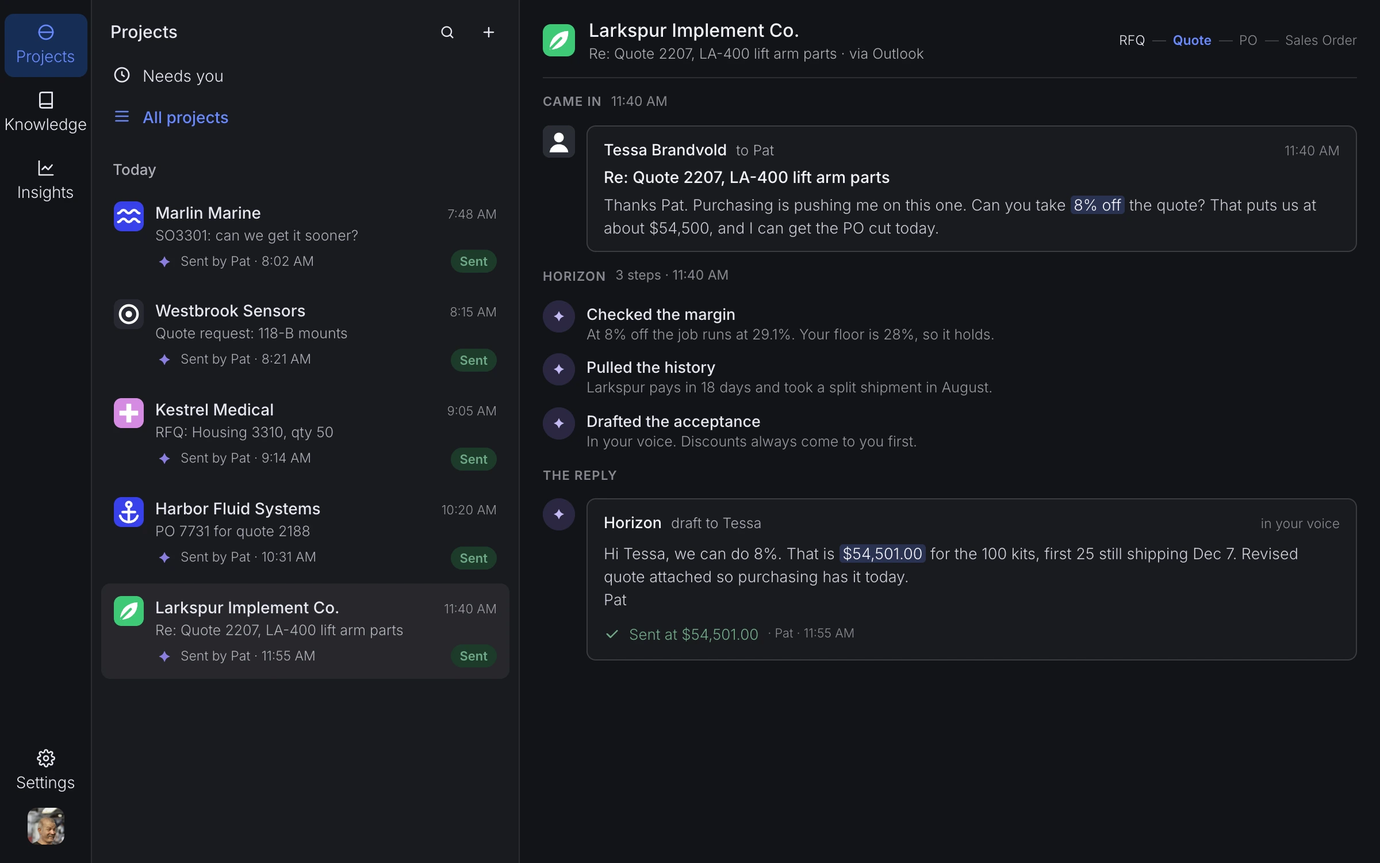
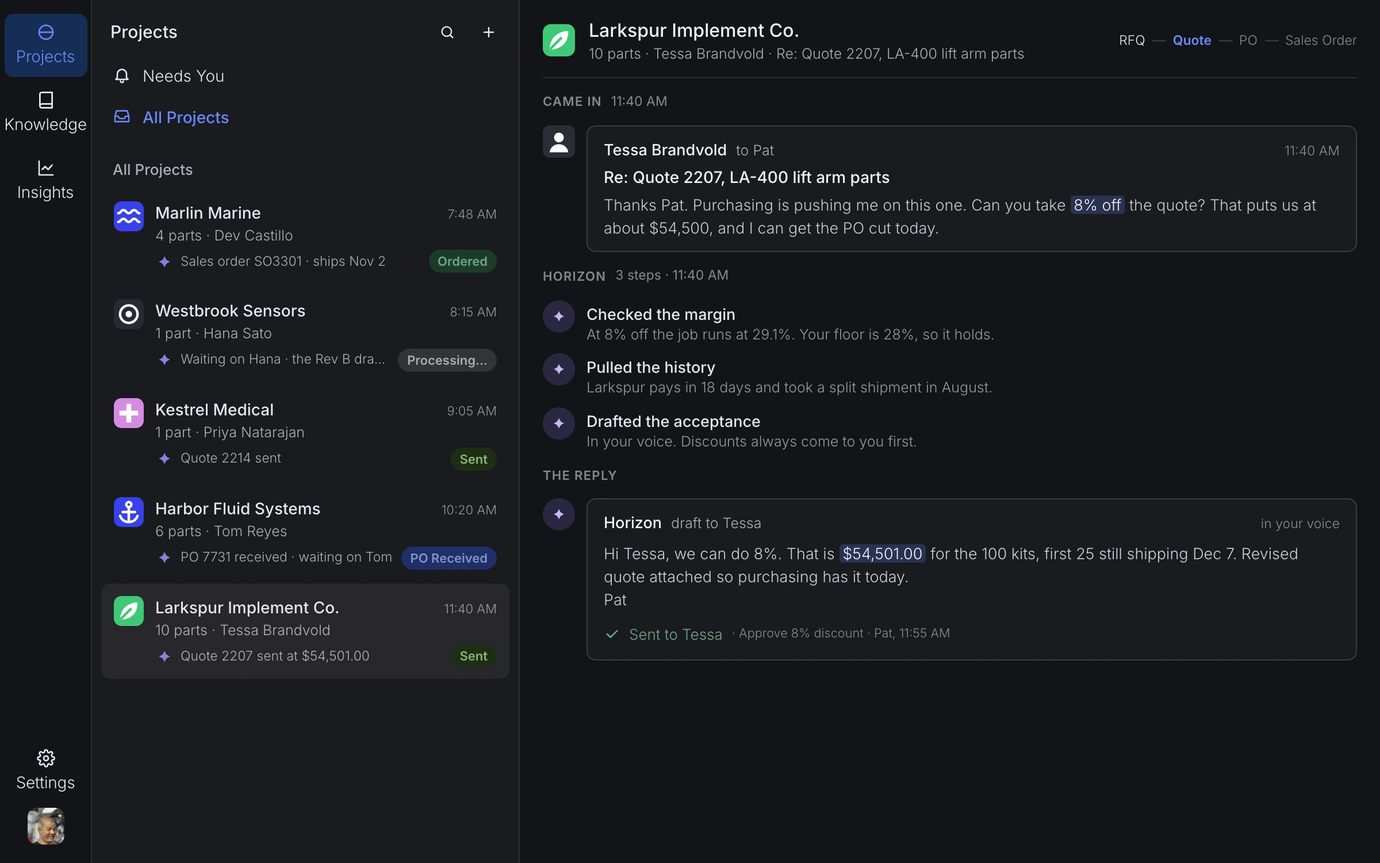
horizon task-list: shipped 0.1.19 strings and pill colors (All Projects / Needs You, Processing…, Needs Review, Send Reply, Counter at 5%, rule lines)

diff --git a/horizon/task-list/index.html b/horizon/task-list/index.html
@@ -85,9 +85,10 @@ body { display: flex; justify-content: center; }
 /* pills */
 .hz-task-list .hzk-pill { flex: none; padding: 0 8px; border-radius: 12px; line-height: 20px; font-size: 11px; font-weight: 600; background: var(--tag-bg); color: var(--tag-fg); white-space: nowrap; }
 .hz-task-list .hzk-pill.ready { background: #0d2d3b; color: #78a6bd; }
-.hz-task-list .hzk-pill.sent { background: var(--ok-bg); color: var(--ok-fg); }
-.hz-task-list .hzk-pill.review { background: var(--warn-bg); color: var(--warn-fg); }
+.hz-task-list .hzk-pill.sent { background: #1e2e14; color: #8db177; }
+.hz-task-list .hzk-pill.review { background: var(--warn-bg); color: #e2a877; }
 .hz-task-list .hzk-pill.po { background: #202f6a; color: #8493c1; }
+.hz-task-list .hzk-pill.ordered { background: #1d3a2a; color: #6da885; }
 .hz-task-list .hzk-pill.processing { background: var(--tag-bg); color: var(--tag-fg); }
 .hz-task-list .hzk-pill.info { background: var(--info-bg); color: var(--info-fg); }
 .hz-task-list .hzk-pill.good { background: rgba(16,163,116,.18); color: var(--good-fg); }
@@ -148,8 +149,12 @@ body { display: flex; justify-content: center; }
 .hz-task-list .hzk-post .hd small { margin-left: auto; font-size: 11.5px; color: var(--mute3); }
 .hz-task-list .hzk-post .body { font-size: 13.5px; line-height: 1.5; color: rgba(230,230,240,.88); white-space: pre-line; }
 .hz-task-list .hzk-post .body mark { background: rgba(103,136,255,.22); color: var(--fg-strong); border-radius: 3px; padding: 0 3px; line-height: 1; }
-.hz-task-list .hzk-why-needs { display: flex; gap: 6px; align-items: baseline; font-size: 12px; line-height: 1.5; color: var(--warn); }
-.hz-task-list .hzk-why-needs b { font-weight: 600; }
+.hz-task-list .hzk-ask { display: grid; grid-template-columns: 8px minmax(0,1fr); gap: 2px 10px; align-items: baseline; margin-top: 4px; }
+.hz-task-list .hzk-ask i { width: 8px; height: 8px; border-radius: 50%; background: var(--send); transform: translateY(-1px); }
+.hz-task-list .hzk-ask b { font-size: 13.5px; font-weight: 500; color: var(--info-fg); }
+.hz-task-list .hzk-ask span { grid-column: 2; font-size: 12px; color: var(--mute3); }
+.hz-task-list .hzk-rec { font-size: 12.5px; color: var(--fg); }
+.hz-task-list .hzk-rec::before { content: 'Recommend: '; display: none; }
 .hz-task-list .hzk-actions { display: flex; gap: 8px; flex-wrap: wrap; align-items: center; margin-top: 4px; }
 .hz-task-list .hzk-btn { height: 28px; padding: 0 12px; border-radius: 7px; border: 1px solid var(--edge2); background: transparent; color: var(--fg); font-size: 12.5px; font-weight: 500; display: inline-flex; align-items: center; transition: transform .15s, filter .15s; }
 .hz-task-list .hzk-btn.primary { background: var(--send); border-color: var(--send); color: #fff; }
@@ -194,9 +199,9 @@ body { display: flex; justify-content: center; }
       <aside class="hzk-list">
         <div class="hzk-list-head"><b>Projects</b><button class="hzk-iconbtn" aria-label="Search"><svg viewBox="0 0 24 24"><circle cx="11" cy="11" r="7"/><path d="m20 20-3.5-3.5"/></svg></button><button class="hzk-iconbtn" aria-label="New"><svg viewBox="0 0 24 24"><path d="M12 5v14M5 12h14"/></svg></button></div>
         <div class="hzk-list-body" id="hz-task-list-listbody">
-          <button class="hzk-nav"><svg viewBox="0 0 24 24"><circle cx="12" cy="12" r="9"/><path d="M12 8v4l3 2"/></svg><span>Needs you</span><i id="hz-task-list-needs"></i></button>
-          <button class="hzk-nav is-on"><svg viewBox="0 0 24 24"><path d="M4 6h16M4 12h16M4 18h16"/></svg><span>All projects</span></button>
-          <div class="hzk-list-title">Today</div>
+          <button class="hzk-nav"><svg viewBox="0 0 24 24"><path d="M6 16V11a6 6 0 0 1 12 0v5l2 2H4z"/><path d="M10 20a2 2 0 0 0 4 0"/></svg><span>Needs You</span><i id="hz-task-list-needs"></i></button>
+          <button class="hzk-nav is-on"><svg viewBox="0 0 24 24"><path d="M3 12h4l2 3h6l2-3h4"/><path d="M5 5h14l2 7v7H3v-7z"/></svg><span>All Projects</span></button>
+          <div class="hzk-list-title">All Projects</div>
           <div id="hz-task-list-rows" style="display:flex;flex-direction:column;gap:2px"></div>
         </div>
       </aside>
@@ -233,51 +238,51 @@ body { display: flex; justify-content: center; }
       steps: [['Checked the schedule', '3 of 4 lines make Nov 2 with the Saturday shift.'],
               ['The brackets wait on anodize', 'Back from Summit Nov 5. Horizon will not promise them.'],
               ['Drafted the reply', 'Yes to three, the brackets Nov 5, and the $980 expedite fee.']],
-      needs: 'Expedite fees come to you.', pillNeeds: true,
+      parts: '4 parts', ask: 'Approve expedite fee', needs: 'Expedites and fees always come to you.', rec: 'yes to three with the $980 fee, the brackets Nov 5',
       reply: 'Dev, we can do it. Three of the four lines ship Nov 2 with a Saturday shift. The brackets are out at anodize until Nov 5, so those follow. The rush adds <mark>$980</mark>; new confirmation attached. Want me to lock it in?\nPat',
-      actions: [['primary', 'Send with the fee'], ['', 'Send without it']],
-      sentLine: 'Sent with the fee' },
+      actions: [['primary', 'Send Reply'], ['', 'Edit']],
+      sentLine: 'Approve expedite fee', sentRow: 'Sales order SO3301 · ships Nov 2', sentPill: 'Ordered', sentCls: 'ordered' },
     { id: 'westbrook', co: 'Westbrook Sensors', mark: M.westbrook, subject: 'Quote request: 118-B mounts', time: '8:15 AM', sentAt: '8:21 AM',
       stage: 'rfq', from: 'Hana Sato', av: photo('hana-sato'), sub: 'Quote request: 118-B mounts',
       body: 'Pat, can you quote <mark>200 of the 118-B mounts</mark>? Need them by Dec 12. Thanks.',
-      noatt: 'No drawing attached',
+      parts: '1 part', noatt: 'No drawing attached', readyLine: 'Asked Hana for the drawing',
       steps: [['Looked for the drawing', 'Not on the email. Not on the drive. 118-A ran in March; 118-B is new.'],
               ['Set the project up anyway', 'Westbrook, 200 pcs, due Dec 12, waiting on the Rev B drawing.'],
               ['Drafted the reply', 'Asked Hana for the drawing, in your voice.']],
       reply: 'Hi Hana, happy to. The email came through without the drawing. Can you send the <mark>118-B print</mark>, or the Rev B change if it is close to the 118-A we ran in March? I will turn it around the same day.\nPat',
-      actions: [['primary', 'Send']],
-      sentLine: 'Sent' },
+      actions: [['primary', 'Send Request'], ['', 'Edit']],
+      sentLine: 'Asked for drawings', sentRow: 'Waiting on Hana · the Rev B drawing', sentPill: 'Processing…', sentCls: 'processing' },
     { id: 'kestrel', co: 'Kestrel Medical', mark: M.kestrel, subject: 'RFQ: Housing 3310, qty 50', time: '9:05 AM', sentAt: '9:14 AM',
       stage: 'quote', from: 'Priya Natarajan', av: photo('priya-natarajan'), sub: 'RFQ: Housing 3310, qty 50',
       body: 'Hi Pat, please quote <mark>50 of the Housing 3310</mark>, same as last time. Certs as usual.',
-      att: 'Housing-3310-RevC.pdf',
+      parts: '1 part', att: 'Housing-3310-RevC.pdf', readyLine: 'Quote 2214 ready to send',
       steps: [['Repeat part', 'Same rev as the August run. 50 pcs, cert fee on every Kestrel lot.'],
               ['Priced from the last job', '$212.40 each, 3 weeks. Quote 2214 created in Fulcrum.'],
               ['Drafted the reply', 'Quote attached, lead time and certs called out.']],
       reply: 'Hi Priya, quote 2214 is attached: 50 pcs at <mark>$212.40</mark>, ships in 3 weeks, material certs included as always. Let me know if the quantity moves.\nPat',
-      actions: [['primary', 'Send']],
-      sentLine: 'Sent · Quote 2214' },
+      actions: [['primary', 'Send Quote'], ['', 'Review Quote']],
+      sentLine: 'Quote 2214', sentRow: 'Quote 2214 sent' },
     { id: 'harbor', co: 'Harbor Fluid Systems', mark: M.harbor, subject: 'PO 7731 for quote 2188', time: '10:20 AM', sentAt: '10:31 AM',
       stage: 'po', from: 'Tom Reyes', av: photo('tom-reyes'), sub: 'PO 7731 for quote 2188',
       body: 'Pat, PO 7731 attached for the manifold plates, <mark>6 lines</mark> per your quote 2188.',
-      att: 'PO-7731.pdf',
+      parts: '6 parts', att: 'PO-7731.pdf',
       steps: [['Matched the PO to the quote', '6 lines. Quantities, prices, and dates agree.'],
               ['<b class="warn">The drawing on the PO is Rev C.</b> You quoted Rev D.', 'Rev D moved two holes. Different program, different fixture.'],
               ['Drafted the reply', 'Asked Tom for a revised PO or a note that Rev D is what they want.']],
-      needs: 'A revision mismatch comes to you.', pillNeeds: true,
+      ask: 'Confirm the rev', needs: 'Rev mismatches always come to you.', rec: 'hold the order and ask for a revised PO',
       reply: 'Tom, thanks for the PO. One catch before I enter it: the PO calls out <mark>Rev C</mark> and we quoted Rev D (two holes moved). Can you send a revised PO, or confirm Rev D is what you want? I will hold the order so nothing runs on the wrong print.\nPat',
-      actions: [['primary', 'Send'], ['', 'Edit']],
-      sentLine: 'Sent · order held' },
+      actions: [['primary', 'Send Reply'], ['', 'Edit']],
+      sentLine: 'Confirm the rev', sentRow: 'PO 7731 received · waiting on Tom', sentPill: 'PO Received', sentCls: 'po' },
     { id: 'larkspur', co: 'Larkspur Implement Co.', mark: M.larkspur, subject: 'Re: Quote 2207, LA-400 lift arm parts', time: '11:40 AM', sentAt: '11:55 AM',
       stage: 'quote', from: 'Tessa Brandvold', av: M.person, sub: 'Re: Quote 2207, LA-400 lift arm parts',
       body: 'Thanks Pat. Purchasing is pushing me on this one. Can you take <mark>8% off</mark> the quote? That puts us at about $54,500, and I can get the PO cut today.',
       steps: [['Checked the margin', 'At 8% off the job runs at 29.1%. Your floor is 28%, so it holds.'],
               ['Pulled the history', 'Larkspur pays in 18 days and took a split shipment in August.'],
               ['Drafted the acceptance', 'In your voice. Discounts always come to you first.']],
-      needs: 'Discounts come to you.', pillNeeds: true,
+      parts: '10 parts', ask: 'Approve 8% discount', needs: 'Discounts always go to you.', rec: 'take it, margin holds at 29.1%',
       reply: 'Hi Tessa, we can do 8%. That is <mark>$54,501.00</mark> for the 100 kits, first 25 still shipping Dec 7. Revised quote attached so purchasing has it today.\nPat',
-      actions: [['primary', 'Send acceptance'], ['', 'Counter at 5%']],
-      sentLine: 'Sent at $54,501.00' }
+      actions: [['primary', 'Send Reply'], ['', 'Counter at 5%']],
+      sentLine: 'Approve 8% discount', sentRow: 'Quote 2207 sent at $54,501.00' }
   ];
   var STAGES = { rfq: ['RFQ', 'Quote', 'PO', 'Sales Order'], quote: ['RFQ', 'Quote', 'PO', 'Sales Order'], po: ['RFQ', 'Quote', 'PO', 'Sales Order'], so: ['RFQ', 'Quote', 'PO', 'Sales Order'] };
   var NOW = { rfq: 0, quote: 1, po: 2, so: 3 };
@@ -285,8 +290,8 @@ body { display: flex; justify-content: center; }
   function rowHtml(it) {
     return '<div class="hzk-row" id="' + SLUG + '-row-' + it.id + '"><span class="mk">' + it.mark + '</span><span>' +
       '<span class="r1"><b>' + it.co + '</b><small>' + it.time + '</small></span>' +
-      '<span class="r2"><span>' + it.subject + '</span></span>' +
-      '<span class="r3 live"><span class="spark">✦</span><em>Reading the email</em><span class="hzk-pill processing" data-pill>Working</span></span></span></div>';
+      '<span class="r2"><span>' + it.parts + ' · ' + it.from + '</span></span>' +
+      '<span class="r3 live"><span class="spark">✦</span><em>Reading the email</em><span class="hzk-pill processing" data-pill>Processing…</span></span></span></div>';
   }
   function setRow(it, verb, pill, cls, live) {
     var row = document.getElementById(SLUG + '-row-' + it.id); if (!row) return;
@@ -297,7 +302,7 @@ body { display: flex; justify-content: center; }
   }
   function headHtml(it) {
     var st = STAGES[it.stage], now = NOW[it.stage];
-    return '<span class="mk">' + it.mark + '</span><div class="t"><b>' + it.co + '</b><span>' + it.subject + ' · via Outlook</span></div>' +
+    return '<span class="mk">' + it.mark + '</span><div class="t"><b>' + it.co + '</b><span>' + it.parts + ' · ' + it.from + ' · ' + it.subject + '</span></div>' +
       '<div class="hzk-stages">' + st.map(function (s, i) { return '<span class="' + (i < now ? 'done' : i === now ? 'now' : '') + '">' + s + '</span>'; }).join('') + '</div>';
   }
   function mailHtml(it) {
@@ -307,13 +312,13 @@ body { display: flex; justify-content: center; }
   }
   function stepHtml(s) { return '<div class="hzk-step">' + SPARK + '<div><div class="t">' + s[0] + '</div><div class="d">' + s[1] + '</div></div></div>'; }
   function replyHtml(it) {
-    var needs = it.needs ? '<div class="hzk-why-needs"><b>Needs you.</b> ' + it.needs + '</div>' : '';
+    var needs = it.needs ? '<div class="hzk-ask"><i></i><b>' + it.ask + '</b><span>' + it.needs + '</span></div>' + (it.rec ? '<div class="hzk-rec">Recommend: ' + it.rec + '</div>' : '') : '';
     var acts = it.actions.map(function (a) { return '<span class="hzk-btn ' + a[0] + '">' + a[1] + '</span>'; }).join('');
     return '<div class="tl-eye">The reply</div><div class="hzk-post" id="' + SLUG + '-post">' + SPARK + '<div class="box' + (it.needs ? ' needs' : '') + '">' +
       '<div class="hd"><b>Horizon</b><span>draft to ' + it.from.split(' ')[0] + '</span><small>in your voice</small></div><div class="body">' + it.reply + '</div>' + needs +
       '<div class="hzk-actions" data-actions>' + acts + PAT + '</div></div></div>';
   }
-  function sentHtml(it) { return '<div class="hzk-result">' + CK + it.sentLine + '<small>· Pat · ' + it.sentAt + '</small></div>'; }
+  function sentHtml(it) { return '<div class="hzk-result">' + CK + 'Sent to ' + it.from.split(' ')[0] + '<small>· ' + it.sentLine + ' · Pat, ' + it.sentAt + '</small></div>'; }
 
   function init(root) {
     var $ = function (id) { return document.getElementById(SLUG + '-' + id); };
@@ -356,8 +361,8 @@ body { display: flex; justify-content: center; }
     function reply(it) {
       var eye = $('eye'); if (eye) { eye.classList.remove('live'); eye.innerHTML = 'Horizon <small>3 steps · ' + it.time + '</small>'; }
       add(body, replyHtml(it));
-      if (it.needs) { setRow(it, 'Needs you: ' + it.needs.replace(/ come to you\.$/, '').replace(/ comes to you\.$/, '').toLowerCase(), 'Needs you', 'review', false); setNeeds(needsN + 1); }
-      else setRow(it, 'Reply drafted, ready for Pat', 'Ready', 'ready', false);
+      if (it.needs) { setRow(it, it.ask, 'Needs Review', 'review', false); setNeeds(needsN + 1); }
+      else setRow(it, it.readyLine || 'Quote ready to send', 'Ready', 'ready', false);
     }
     function press(it) {
       var b = body.querySelector('[data-actions] .hzk-btn.primary'); if (b) b.classList.add('is-pressed');
@@ -366,8 +371,8 @@ body { display: flex; justify-content: center; }
       var acts = body.querySelector('[data-actions]');
       if (acts) { var wrap = document.createElement('div'); wrap.innerHTML = sentHtml(it); var el = wrap.firstChild; if (!instant) el.classList.add('hzk-in'); acts.parentNode.replaceChild(el, acts); }
       var box = body.querySelector('.hzk-post .box'); if (box) box.classList.remove('needs');
-      var why = body.querySelector('.hzk-why-needs'); if (why) why.remove();
-      setRow(it, 'Sent by Pat · ' + it.sentAt, 'Sent', 'sent', false);
+      var why = body.querySelector('.hzk-ask'); if (why) why.remove(); var rec = body.querySelector('.hzk-rec'); if (rec) rec.remove();
+      setRow(it, it.sentRow, it.sentPill || 'Sent', it.sentCls || 'sent', false);
       if (it.needs) setNeeds(Math.max(0, needsN - 1));
     }
     function arrive(it) {

diff --git a/horizon/task-list/fragment.html b/horizon/task-list/fragment.html
@@ -57,9 +57,10 @@
 /* pills */
 .hz-task-list .hzk-pill { flex: none; padding: 0 8px; border-radius: 12px; line-height: 20px; font-size: 11px; font-weight: 600; background: var(--tag-bg); color: var(--tag-fg); white-space: nowrap; }
 .hz-task-list .hzk-pill.ready { background: #0d2d3b; color: #78a6bd; }
-.hz-task-list .hzk-pill.sent { background: var(--ok-bg); color: var(--ok-fg); }
-.hz-task-list .hzk-pill.review { background: var(--warn-bg); color: var(--warn-fg); }
+.hz-task-list .hzk-pill.sent { background: #1e2e14; color: #8db177; }
+.hz-task-list .hzk-pill.review { background: var(--warn-bg); color: #e2a877; }
 .hz-task-list .hzk-pill.po { background: #202f6a; color: #8493c1; }
+.hz-task-list .hzk-pill.ordered { background: #1d3a2a; color: #6da885; }
 .hz-task-list .hzk-pill.processing { background: var(--tag-bg); color: var(--tag-fg); }
 .hz-task-list .hzk-pill.info { background: var(--info-bg); color: var(--info-fg); }
 .hz-task-list .hzk-pill.good { background: rgba(16,163,116,.18); color: var(--good-fg); }
@@ -120,8 +121,12 @@
 .hz-task-list .hzk-post .hd small { margin-left: auto; font-size: 11.5px; color: var(--mute3); }
 .hz-task-list .hzk-post .body { font-size: 13.5px; line-height: 1.5; color: rgba(230,230,240,.88); white-space: pre-line; }
 .hz-task-list .hzk-post .body mark { background: rgba(103,136,255,.22); color: var(--fg-strong); border-radius: 3px; padding: 0 3px; line-height: 1; }
-.hz-task-list .hzk-why-needs { display: flex; gap: 6px; align-items: baseline; font-size: 12px; line-height: 1.5; color: var(--warn); }
-.hz-task-list .hzk-why-needs b { font-weight: 600; }
+.hz-task-list .hzk-ask { display: grid; grid-template-columns: 8px minmax(0,1fr); gap: 2px 10px; align-items: baseline; margin-top: 4px; }
+.hz-task-list .hzk-ask i { width: 8px; height: 8px; border-radius: 50%; background: var(--send); transform: translateY(-1px); }
+.hz-task-list .hzk-ask b { font-size: 13.5px; font-weight: 500; color: var(--info-fg); }
+.hz-task-list .hzk-ask span { grid-column: 2; font-size: 12px; color: var(--mute3); }
+.hz-task-list .hzk-rec { font-size: 12.5px; color: var(--fg); }
+.hz-task-list .hzk-rec::before { content: 'Recommend: '; display: none; }
 .hz-task-list .hzk-actions { display: flex; gap: 8px; flex-wrap: wrap; align-items: center; margin-top: 4px; }
 .hz-task-list .hzk-btn { height: 28px; padding: 0 12px; border-radius: 7px; border: 1px solid var(--edge2); background: transparent; color: var(--fg); font-size: 12.5px; font-weight: 500; display: inline-flex; align-items: center; transition: transform .15s, filter .15s; }
 .hz-task-list .hzk-btn.primary { background: var(--send); border-color: var(--send); color: #fff; }
@@ -163,9 +168,9 @@
       <aside class="hzk-list">
         <div class="hzk-list-head"><b>Projects</b><button class="hzk-iconbtn" aria-label="Search"><svg viewBox="0 0 24 24"><circle cx="11" cy="11" r="7"/><path d="m20 20-3.5-3.5"/></svg></button><button class="hzk-iconbtn" aria-label="New"><svg viewBox="0 0 24 24"><path d="M12 5v14M5 12h14"/></svg></button></div>
         <div class="hzk-list-body" id="hz-task-list-listbody">
-          <button class="hzk-nav"><svg viewBox="0 0 24 24"><circle cx="12" cy="12" r="9"/><path d="M12 8v4l3 2"/></svg><span>Needs you</span><i id="hz-task-list-needs"></i></button>
-          <button class="hzk-nav is-on"><svg viewBox="0 0 24 24"><path d="M4 6h16M4 12h16M4 18h16"/></svg><span>All projects</span></button>
-          <div class="hzk-list-title">Today</div>
+          <button class="hzk-nav"><svg viewBox="0 0 24 24"><path d="M6 16V11a6 6 0 0 1 12 0v5l2 2H4z"/><path d="M10 20a2 2 0 0 0 4 0"/></svg><span>Needs You</span><i id="hz-task-list-needs"></i></button>
+          <button class="hzk-nav is-on"><svg viewBox="0 0 24 24"><path d="M3 12h4l2 3h6l2-3h4"/><path d="M5 5h14l2 7v7H3v-7z"/></svg><span>All Projects</span></button>
+          <div class="hzk-list-title">All Projects</div>
           <div id="hz-task-list-rows" style="display:flex;flex-direction:column;gap:2px"></div>
         </div>
       </aside>
@@ -202,51 +207,51 @@
       steps: [['Checked the schedule', '3 of 4 lines make Nov 2 with the Saturday shift.'],
               ['The brackets wait on anodize', 'Back from Summit Nov 5. Horizon will not promise them.'],
               ['Drafted the reply', 'Yes to three, the brackets Nov 5, and the $980 expedite fee.']],
-      needs: 'Expedite fees come to you.', pillNeeds: true,
+      parts: '4 parts', ask: 'Approve expedite fee', needs: 'Expedites and fees always come to you.', rec: 'yes to three with the $980 fee, the brackets Nov 5',
       reply: 'Dev, we can do it. Three of the four lines ship Nov 2 with a Saturday shift. The brackets are out at anodize until Nov 5, so those follow. The rush adds <mark>$980</mark>; new confirmation attached. Want me to lock it in?\nPat',
-      actions: [['primary', 'Send with the fee'], ['', 'Send without it']],
-      sentLine: 'Sent with the fee' },
+      actions: [['primary', 'Send Reply'], ['', 'Edit']],
+      sentLine: 'Approve expedite fee', sentRow: 'Sales order SO3301 · ships Nov 2', sentPill: 'Ordered', sentCls: 'ordered' },
     { id: 'westbrook', co: 'Westbrook Sensors', mark: M.westbrook, subject: 'Quote request: 118-B mounts', time: '8:15 AM', sentAt: '8:21 AM',
       stage: 'rfq', from: 'Hana Sato', av: photo('hana-sato'), sub: 'Quote request: 118-B mounts',
       body: 'Pat, can you quote <mark>200 of the 118-B mounts</mark>? Need them by Dec 12. Thanks.',
-      noatt: 'No drawing attached',
+      parts: '1 part', noatt: 'No drawing attached', readyLine: 'Asked Hana for the drawing',
       steps: [['Looked for the drawing', 'Not on the email. Not on the drive. 118-A ran in March; 118-B is new.'],
               ['Set the project up anyway', 'Westbrook, 200 pcs, due Dec 12, waiting on the Rev B drawing.'],
               ['Drafted the reply', 'Asked Hana for the drawing, in your voice.']],
       reply: 'Hi Hana, happy to. The email came through without the drawing. Can you send the <mark>118-B print</mark>, or the Rev B change if it is close to the 118-A we ran in March? I will turn it around the same day.\nPat',
-      actions: [['primary', 'Send']],
-      sentLine: 'Sent' },
+      actions: [['primary', 'Send Request'], ['', 'Edit']],
+      sentLine: 'Asked for drawings', sentRow: 'Waiting on Hana · the Rev B drawing', sentPill: 'Processing…', sentCls: 'processing' },
     { id: 'kestrel', co: 'Kestrel Medical', mark: M.kestrel, subject: 'RFQ: Housing 3310, qty 50', time: '9:05 AM', sentAt: '9:14 AM',
       stage: 'quote', from: 'Priya Natarajan', av: photo('priya-natarajan'), sub: 'RFQ: Housing 3310, qty 50',
       body: 'Hi Pat, please quote <mark>50 of the Housing 3310</mark>, same as last time. Certs as usual.',
-      att: 'Housing-3310-RevC.pdf',
+      parts: '1 part', att: 'Housing-3310-RevC.pdf', readyLine: 'Quote 2214 ready to send',
       steps: [['Repeat part', 'Same rev as the August run. 50 pcs, cert fee on every Kestrel lot.'],
               ['Priced from the last job', '$212.40 each, 3 weeks. Quote 2214 created in Fulcrum.'],
               ['Drafted the reply', 'Quote attached, lead time and certs called out.']],
       reply: 'Hi Priya, quote 2214 is attached: 50 pcs at <mark>$212.40</mark>, ships in 3 weeks, material certs included as always. Let me know if the quantity moves.\nPat',
-      actions: [['primary', 'Send']],
-      sentLine: 'Sent · Quote 2214' },
+      actions: [['primary', 'Send Quote'], ['', 'Review Quote']],
+      sentLine: 'Quote 2214', sentRow: 'Quote 2214 sent' },
     { id: 'harbor', co: 'Harbor Fluid Systems', mark: M.harbor, subject: 'PO 7731 for quote 2188', time: '10:20 AM', sentAt: '10:31 AM',
       stage: 'po', from: 'Tom Reyes', av: photo('tom-reyes'), sub: 'PO 7731 for quote 2188',
       body: 'Pat, PO 7731 attached for the manifold plates, <mark>6 lines</mark> per your quote 2188.',
-      att: 'PO-7731.pdf',
+      parts: '6 parts', att: 'PO-7731.pdf',
       steps: [['Matched the PO to the quote', '6 lines. Quantities, prices, and dates agree.'],
               ['<b class="warn">The drawing on the PO is Rev C.</b> You quoted Rev D.', 'Rev D moved two holes. Different program, different fixture.'],
               ['Drafted the reply', 'Asked Tom for a revised PO or a note that Rev D is what they want.']],
-      needs: 'A revision mismatch comes to you.', pillNeeds: true,
+      ask: 'Confirm the rev', needs: 'Rev mismatches always come to you.', rec: 'hold the order and ask for a revised PO',
       reply: 'Tom, thanks for the PO. One catch before I enter it: the PO calls out <mark>Rev C</mark> and we quoted Rev D (two holes moved). Can you send a revised PO, or confirm Rev D is what you want? I will hold the order so nothing runs on the wrong print.\nPat',
-      actions: [['primary', 'Send'], ['', 'Edit']],
-      sentLine: 'Sent · order held' },
+      actions: [['primary', 'Send Reply'], ['', 'Edit']],
+      sentLine: 'Confirm the rev', sentRow: 'PO 7731 received · waiting on Tom', sentPill: 'PO Received', sentCls: 'po' },
     { id: 'larkspur', co: 'Larkspur Implement Co.', mark: M.larkspur, subject: 'Re: Quote 2207, LA-400 lift arm parts', time: '11:40 AM', sentAt: '11:55 AM',
       stage: 'quote', from: 'Tessa Brandvold', av: M.person, sub: 'Re: Quote 2207, LA-400 lift arm parts',
       body: 'Thanks Pat. Purchasing is pushing me on this one. Can you take <mark>8% off</mark> the quote? That puts us at about $54,500, and I can get the PO cut today.',
       steps: [['Checked the margin', 'At 8% off the job runs at 29.1%. Your floor is 28%, so it holds.'],
               ['Pulled the history', 'Larkspur pays in 18 days and took a split shipment in August.'],
               ['Drafted the acceptance', 'In your voice. Discounts always come to you first.']],
-      needs: 'Discounts come to you.', pillNeeds: true,
+      parts: '10 parts', ask: 'Approve 8% discount', needs: 'Discounts always go to you.', rec: 'take it, margin holds at 29.1%',
       reply: 'Hi Tessa, we can do 8%. That is <mark>$54,501.00</mark> for the 100 kits, first 25 still shipping Dec 7. Revised quote attached so purchasing has it today.\nPat',
-      actions: [['primary', 'Send acceptance'], ['', 'Counter at 5%']],
-      sentLine: 'Sent at $54,501.00' }
+      actions: [['primary', 'Send Reply'], ['', 'Counter at 5%']],
+      sentLine: 'Approve 8% discount', sentRow: 'Quote 2207 sent at $54,501.00' }
   ];
   var STAGES = { rfq: ['RFQ', 'Quote', 'PO', 'Sales Order'], quote: ['RFQ', 'Quote', 'PO', 'Sales Order'], po: ['RFQ', 'Quote', 'PO', 'Sales Order'], so: ['RFQ', 'Quote', 'PO', 'Sales Order'] };
   var NOW = { rfq: 0, quote: 1, po: 2, so: 3 };
@@ -254,8 +259,8 @@
   function rowHtml(it) {
     return '<div class="hzk-row" id="' + SLUG + '-row-' + it.id + '"><span class="mk">' + it.mark + '</span><span>' +
       '<span class="r1"><b>' + it.co + '</b><small>' + it.time + '</small></span>' +
-      '<span class="r2"><span>' + it.subject + '</span></span>' +
-      '<span class="r3 live"><span class="spark">✦</span><em>Reading the email</em><span class="hzk-pill processing" data-pill>Working</span></span></span></div>';
+      '<span class="r2"><span>' + it.parts + ' · ' + it.from + '</span></span>' +
+      '<span class="r3 live"><span class="spark">✦</span><em>Reading the email</em><span class="hzk-pill processing" data-pill>Processing…</span></span></span></div>';
   }
   function setRow(it, verb, pill, cls, live) {
     var row = document.getElementById(SLUG + '-row-' + it.id); if (!row) return;
@@ -266,7 +271,7 @@
   }
   function headHtml(it) {
     var st = STAGES[it.stage], now = NOW[it.stage];
-    return '<span class="mk">' + it.mark + '</span><div class="t"><b>' + it.co + '</b><span>' + it.subject + ' · via Outlook</span></div>' +
+    return '<span class="mk">' + it.mark + '</span><div class="t"><b>' + it.co + '</b><span>' + it.parts + ' · ' + it.from + ' · ' + it.subject + '</span></div>' +
       '<div class="hzk-stages">' + st.map(function (s, i) { return '<span class="' + (i < now ? 'done' : i === now ? 'now' : '') + '">' + s + '</span>'; }).join('') + '</div>';
   }
   function mailHtml(it) {
@@ -276,13 +281,13 @@
   }
   function stepHtml(s) { return '<div class="hzk-step">' + SPARK + '<div><div class="t">' + s[0] + '</div><div class="d">' + s[1] + '</div></div></div>'; }
   function replyHtml(it) {
-    var needs = it.needs ? '<div class="hzk-why-needs"><b>Needs you.</b> ' + it.needs + '</div>' : '';
+    var needs = it.needs ? '<div class="hzk-ask"><i></i><b>' + it.ask + '</b><span>' + it.needs + '</span></div>' + (it.rec ? '<div class="hzk-rec">Recommend: ' + it.rec + '</div>' : '') : '';
     var acts = it.actions.map(function (a) { return '<span class="hzk-btn ' + a[0] + '">' + a[1] + '</span>'; }).join('');
     return '<div class="tl-eye">The reply</div><div class="hzk-post" id="' + SLUG + '-post">' + SPARK + '<div class="box' + (it.needs ? ' needs' : '') + '">' +
       '<div class="hd"><b>Horizon</b><span>draft to ' + it.from.split(' ')[0] + '</span><small>in your voice</small></div><div class="body">' + it.reply + '</div>' + needs +
       '<div class="hzk-actions" data-actions>' + acts + PAT + '</div></div></div>';
   }
-  function sentHtml(it) { return '<div class="hzk-result">' + CK + it.sentLine + '<small>· Pat · ' + it.sentAt + '</small></div>'; }
+  function sentHtml(it) { return '<div class="hzk-result">' + CK + 'Sent to ' + it.from.split(' ')[0] + '<small>· ' + it.sentLine + ' · Pat, ' + it.sentAt + '</small></div>'; }
 
   function init(root) {
     var $ = function (id) { return document.getElementById(SLUG + '-' + id); };
@@ -325,8 +330,8 @@
     function reply(it) {
       var eye = $('eye'); if (eye) { eye.classList.remove('live'); eye.innerHTML = 'Horizon <small>3 steps · ' + it.time + '</small>'; }
       add(body, replyHtml(it));
-      if (it.needs) { setRow(it, 'Needs you: ' + it.needs.replace(/ come to you\.$/, '').replace(/ comes to you\.$/, '').toLowerCase(), 'Needs you', 'review', false); setNeeds(needsN + 1); }
-      else setRow(it, 'Reply drafted, ready for Pat', 'Ready', 'ready', false);
+      if (it.needs) { setRow(it, it.ask, 'Needs Review', 'review', false); setNeeds(needsN + 1); }
+      else setRow(it, it.readyLine || 'Quote ready to send', 'Ready', 'ready', false);
     }
     function press(it) {
       var b = body.querySelector('[data-actions] .hzk-btn.primary'); if (b) b.classList.add('is-pressed');
@@ -335,8 +340,8 @@
       var acts = body.querySelector('[data-actions]');
       if (acts) { var wrap = document.createElement('div'); wrap.innerHTML = sentHtml(it); var el = wrap.firstChild; if (!instant) el.classList.add('hzk-in'); acts.parentNode.replaceChild(el, acts); }
       var box = body.querySelector('.hzk-post .box'); if (box) box.classList.remove('needs');
-      var why = body.querySelector('.hzk-why-needs'); if (why) why.remove();
-      setRow(it, 'Sent by Pat · ' + it.sentAt, 'Sent', 'sent', false);
+      var why = body.querySelector('.hzk-ask'); if (why) why.remove(); var rec = body.querySelector('.hzk-rec'); if (rec) rec.remove();
+      setRow(it, it.sentRow, it.sentPill || 'Sent', it.sentCls || 'sent', false);
       if (it.needs) setNeeds(Math.max(0, needsN - 1));
     }
     function arrive(it) {
